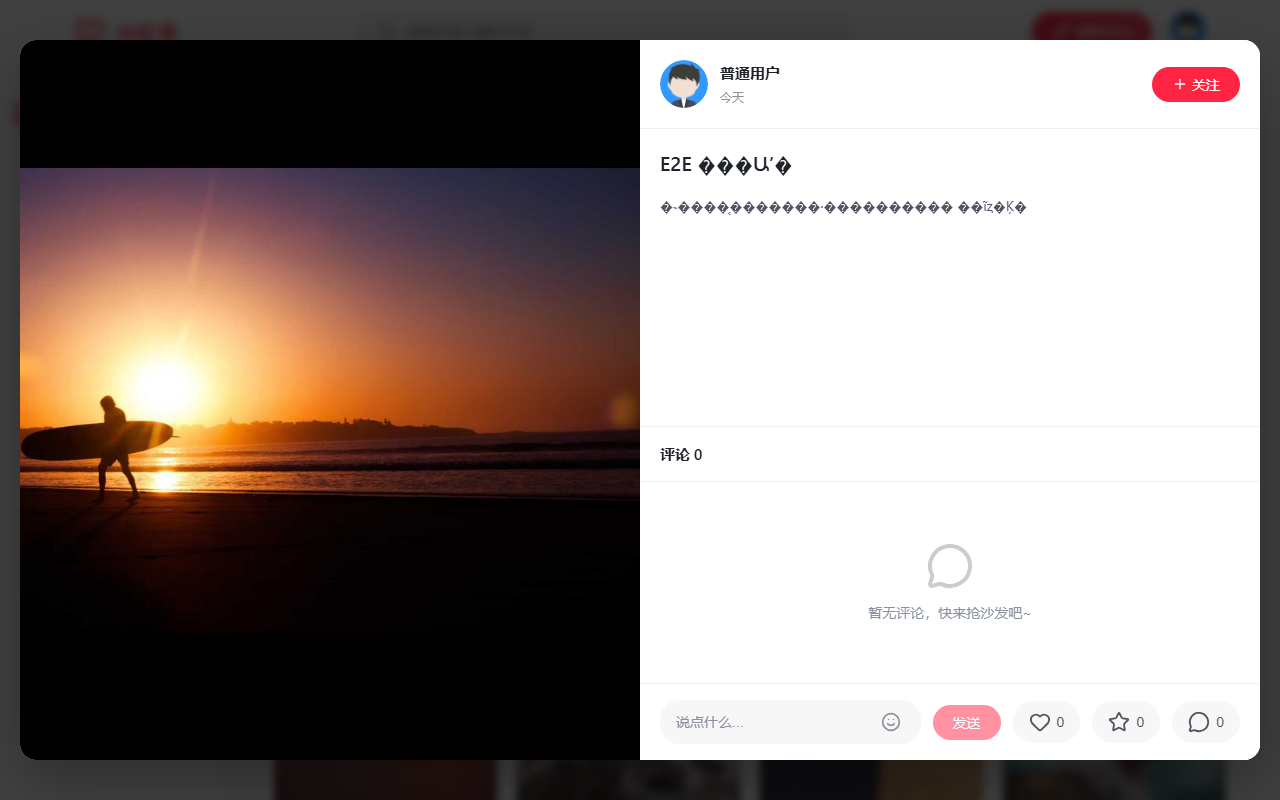
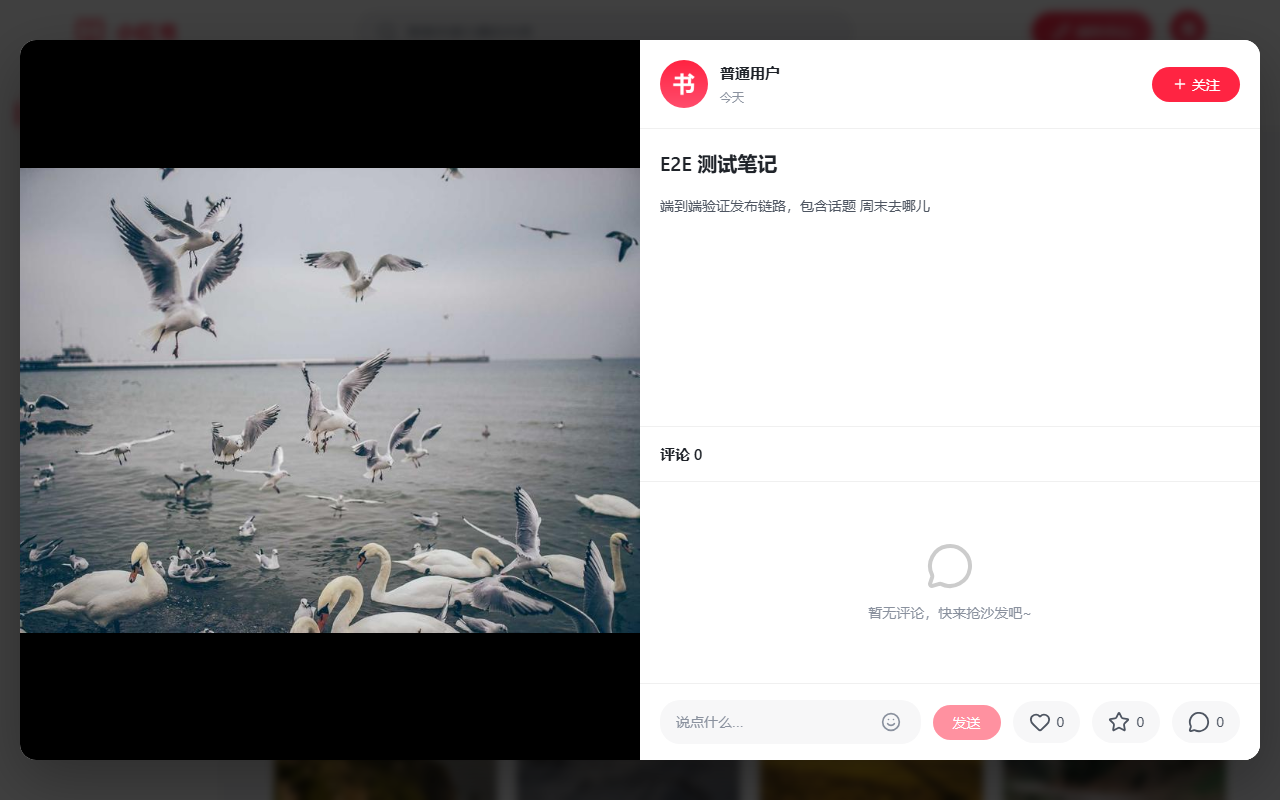
fix: 全库中文乱码根因修复（latin1 导入会话 + GBK 发帖）
- init SQL 六文件头部加 SET NAMES utf8mb4：docker mysql 客户端在
  C locale 下默认 latin1 会话，UTF-8 种子被逐字节双重编码入库
- E2E 发帖标题/内容改经 UTF-8 文件传给 curl（field=<file 字节保真），
  杜绝 GBK 控制台产生的 U+FFFD
- 修复 init 文件两处潜伏漂移：rb_product_browse 唯一键误引 sku_id、
  rb_order_item 缺 sku_id 列（对齐实体；由重灌暴露）
- 六库以 utf8mb4 会话全量重灌，42 文本列扫描零污染；E2E 回归全绿，
  README 截图全部重拍（商品名/笔记标题中文恢复正常）

diff --git a/项目审查与优化建议报告.md b/项目审查与优化建议报告.md
@@ -443,3 +443,18 @@ Playwright 第三条冒烟（游客逛商城不应弹登录）失败，追查发
 2. **store 返回 ComputedRef 未解包（存量 bug）**：useUserStore 返回普通对象，`isLoggedIn` 是 ComputedRef 引用——在 .ts 与模板中恒 truthy。后果：上述守卫形同虚设、未登录 header 误渲染用户头像、ProfilePage 未登录引导永不显示。修复：store 用 reactive() 包装（顶层 computed 自动解包，响应性保留），登录态判断全站恢复正确。
 
 UI 冒烟（Playwright + chromium，npmmirror 镜像装浏览器）：游客三条（匿名信息流/侧栏/游客逛商城）+ 登录态两条（header 头像渲染/受保护路由进入，token 经 .run/ui-token 文件注入不经会话）共 5/5 通过。GitHub Actions CI（前端 build + 后端 mvn package）已就绪。
+
+---
+
+## 附录十：全库乱码根因修复
+
+**现象**：商城/订单页截图商品名显示 mojibake（ä¸ç»'å...）。**根因**：MySQL 8 官方镜像的 mysql 客户端在 C locale 容器内默认 **latin1 会话**（server 虽是 utf8mb4，但 character_set_client/connection/results=latin1），docker-entrypoint 导入 UTF-8 种子文件时逐字节双重编码入库；另 E2E 脚本中文标题经 Windows GBK 控制台发出，服务端解析为 U+FFFD（不可逆）。
+
+**修复**：
+1. init SQL 六文件头部加 `SET NAMES utf8mb4;`（治本：重部署不再复现）
+2. E2E 发帖标题/内容改经 UTF-8 文件传入 curl（`-F "field=<file"` 字节保真）
+3. drop 六库后以 `--default-character-set=utf8mb4` 全量重灌（运行时测试数据由 E2E 重建）
+4. 重灌暴露并修复 init 文件两处潜伏漂移：rb_product_browse 唯一键引用不存在的 sku_id（改 uk_user_product）；rb_order_item 缺 sku_id 列（对齐实体）
+5. Redis FLUSHALL 清旧缓存
+
+**验证**：42 文本列 ×6 库全量扫描（Latin-1 扩展区字符 + U+FFFD 双正则）零命中；商品名"丝绒哑光口红 #小辣椒"等恢复正常；E2E 回归全绿且新笔记标题"E2E 测试笔记"中文完好；README 截图全部重拍替换。
